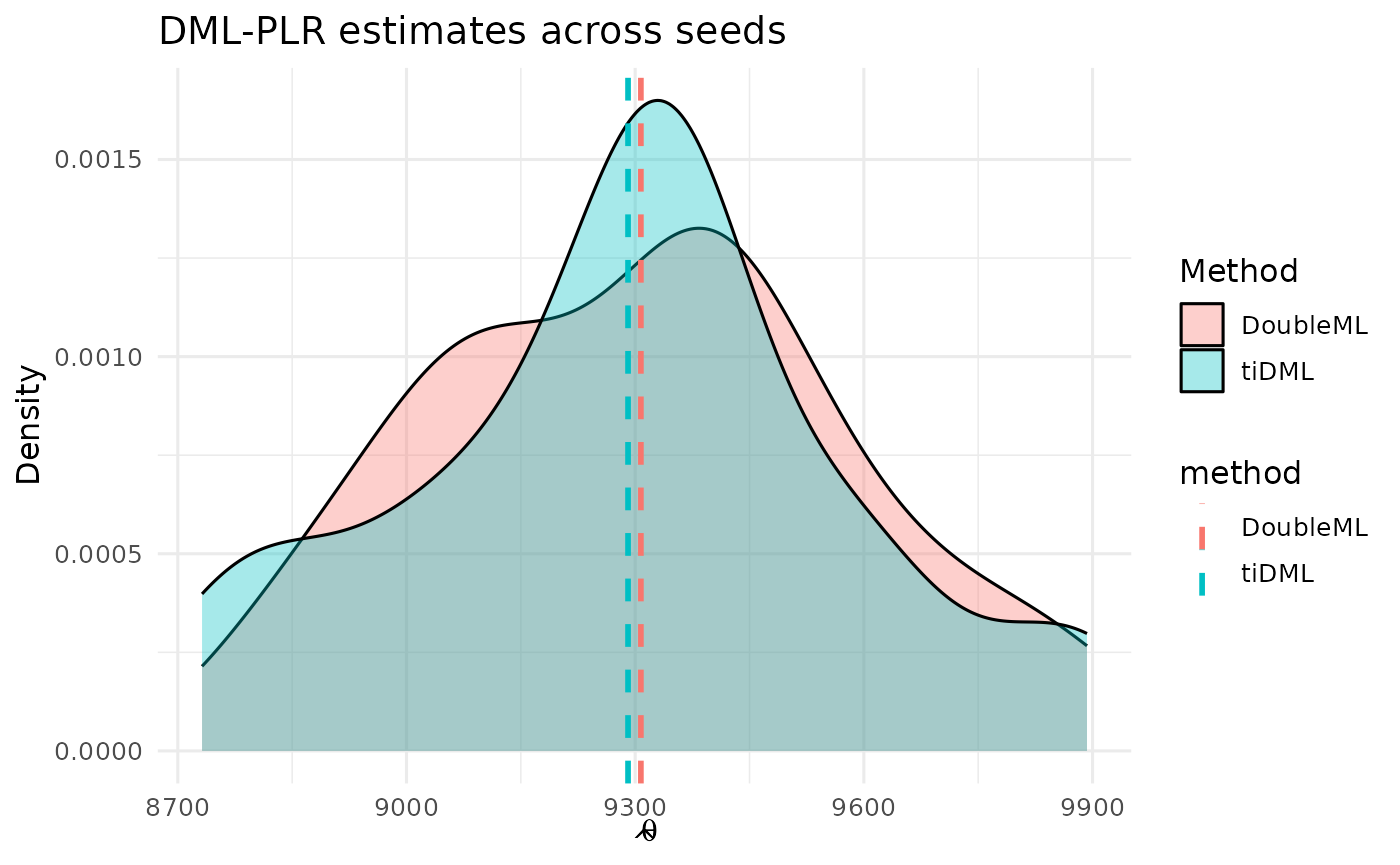
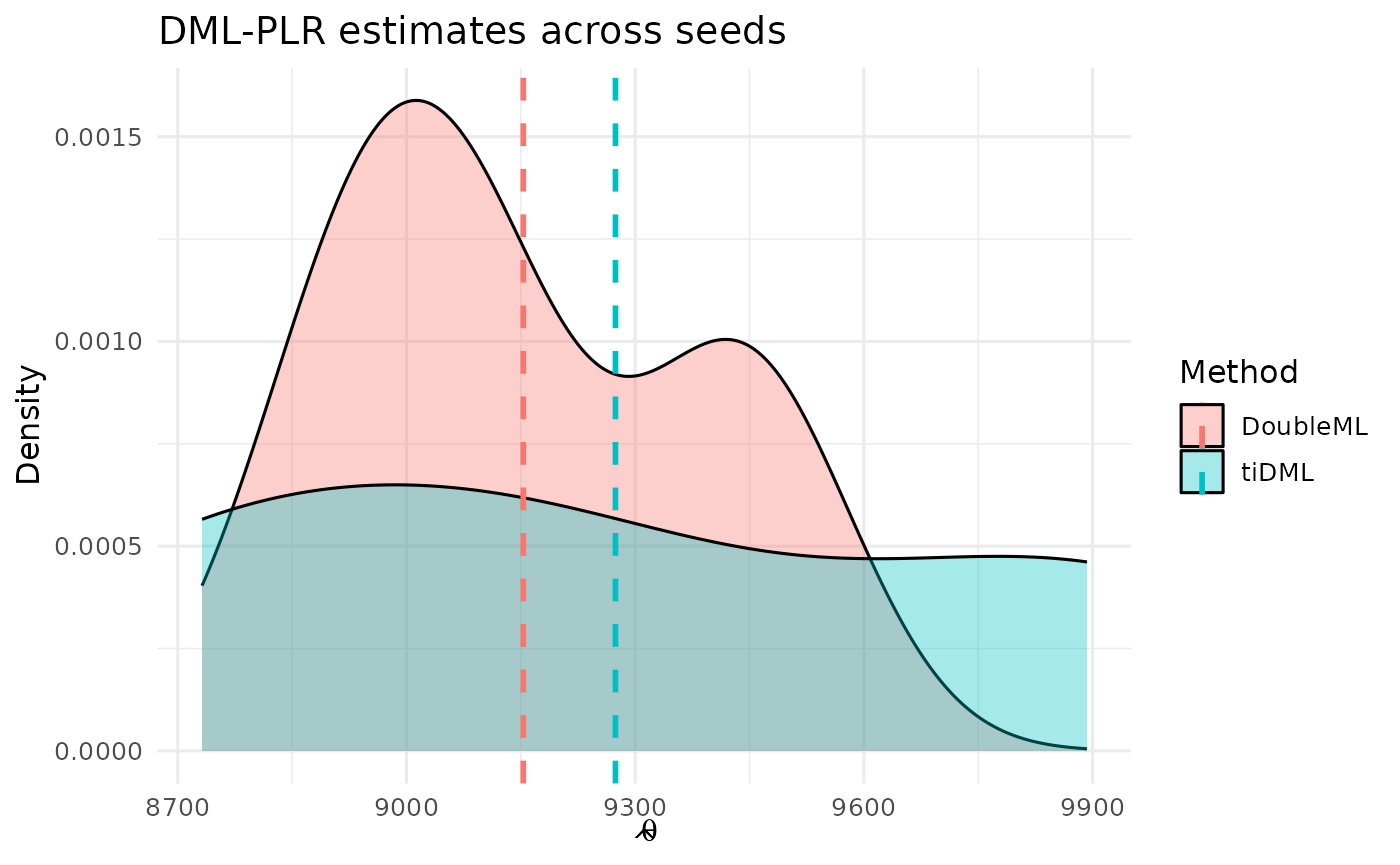
Deploying to gh-pages from @ jberesford-fe/tiDML@be8ad4609fb413aea750f807554bf57a4db45dc1 🚀

diff --git a/articles/package-replication.html b/articles/package-replication.html
@@ -194,7 +194,7 @@ first is classification while the second is regression.</p>
 frame.</p>
 <div class="sourceCode" id="cb4"><pre class="downlit sourceCode r">
 <code class="sourceCode R"><span></span>
-<span><span class="va">replications</span> <span class="op">&lt;-</span> <span class="fl">25L</span></span>
+<span><span class="va">replications</span> <span class="op">&lt;-</span> <span class="fl">2L</span></span>
 <span></span>
 <span><span class="va">run_both</span> <span class="op">&lt;-</span> <span class="kw">function</span><span class="op">(</span><span class="va">seed</span>, <span class="va">df</span>, <span class="va">y</span>, <span class="va">d</span>, <span class="va">x</span>, <span class="va">trees_grid</span> <span class="op">=</span> <span class="fl">1200L</span>, <span class="va">n_folds</span> <span class="op">=</span> <span class="fl">5L</span><span class="op">)</span> <span class="op">{</span></span>
 <span>  <span class="va">tidml_row</span> <span class="op">&lt;-</span> <span class="fu">run_tidml</span><span class="op">(</span><span class="va">seed</span>, <span class="va">df</span>, <span class="va">y</span>, <span class="va">d</span>, <span class="va">x</span>, <span class="va">trees_grid</span>, <span class="va">n_folds</span><span class="op">)</span></span>
@@ -224,7 +224,7 @@ to show that they overlap and have very similar means.</p>
 <span>  <span class="op">)</span> <span class="op">+</span></span>
 <span>  <span class="fu"><a href="https://ggplot2.tidyverse.org/reference/labs.html" class="external-link">labs</a></span><span class="op">(</span></span>
 <span>    title <span class="op">=</span> <span class="st">"DML-PLR estimates across seeds"</span>,</span>
-<span>    x <span class="op">=</span> <span class="fu"><a href="https://rdrr.io/r/base/expression.html" class="external-link">expression</a></span><span class="op">(</span><span class="fu"><a href="https://rdrr.io/r/stats/influence.measures.html" class="external-link">hat</a></span><span class="op">(</span><span class="va">theta</span><span class="op">)</span><span class="op">)</span>, y <span class="op">=</span> <span class="st">"Density"</span>, fill <span class="op">=</span> <span class="st">"Method"</span></span>
+<span>    x <span class="op">=</span> <span class="fu"><a href="https://rdrr.io/r/base/expression.html" class="external-link">expression</a></span><span class="op">(</span><span class="fu"><a href="https://rdrr.io/r/stats/influence.measures.html" class="external-link">hat</a></span><span class="op">(</span><span class="va">theta</span><span class="op">)</span><span class="op">)</span>, y <span class="op">=</span> <span class="st">"Density"</span>, fill <span class="op">=</span> <span class="st">"Method"</span>, colour<span class="op">=</span> <span class="st">"Method"</span></span>
 <span>  <span class="op">)</span> <span class="op">+</span></span>
 <span>  <span class="fu"><a href="https://ggplot2.tidyverse.org/reference/ggtheme.html" class="external-link">theme_minimal</a></span><span class="op">(</span>base_size <span class="op">=</span> <span class="fl">12</span><span class="op">)</span></span></code></pre></div>
 <p><img src="package-replication_files/figure-html/plot-results-1.png" width="700"></p>

diff --git a/articles/examine-outputs.html b/articles/examine-outputs.html
@@ -282,7 +282,7 @@ This combines pre-processing (<code>recipes</code>) and model fitting
 <span><span class="co">#&gt; $mtry</span></span>
 <span><span class="co">#&gt; <span style="font-weight: bold;">&lt;quosure&gt;</span></span></span>
 <span><span class="co">#&gt; expr: <span style="color: #0000BB;">^mtry_g</span></span></span>
-<span><span class="co">#&gt; env:  <span style="color: #0000BB;">0x558992456e30</span></span></span>
+<span><span class="co">#&gt; env:  <span style="color: #0000BB;">0x560bed40d918</span></span></span>
 <span><span class="co">#&gt; </span></span>
 <span><span class="co">#&gt; $trees</span></span>
 <span><span class="co">#&gt; <span style="font-weight: bold;">&lt;quosure&gt;</span></span></span>
